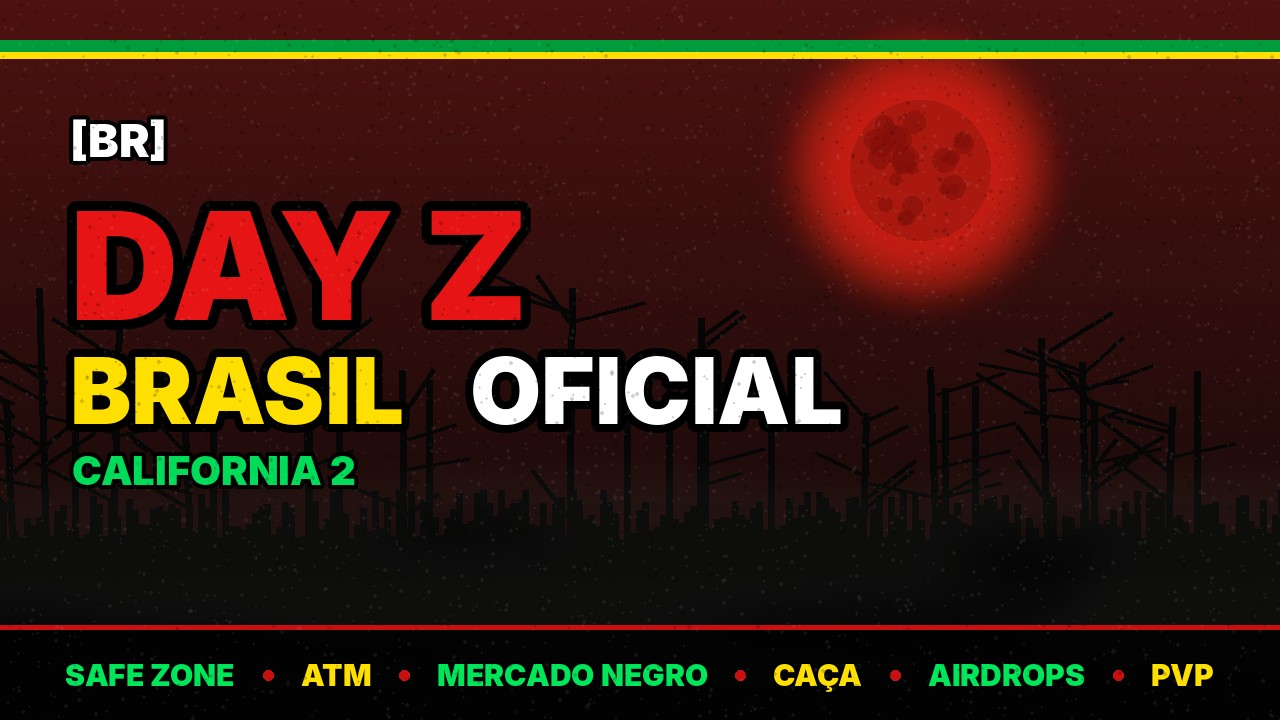
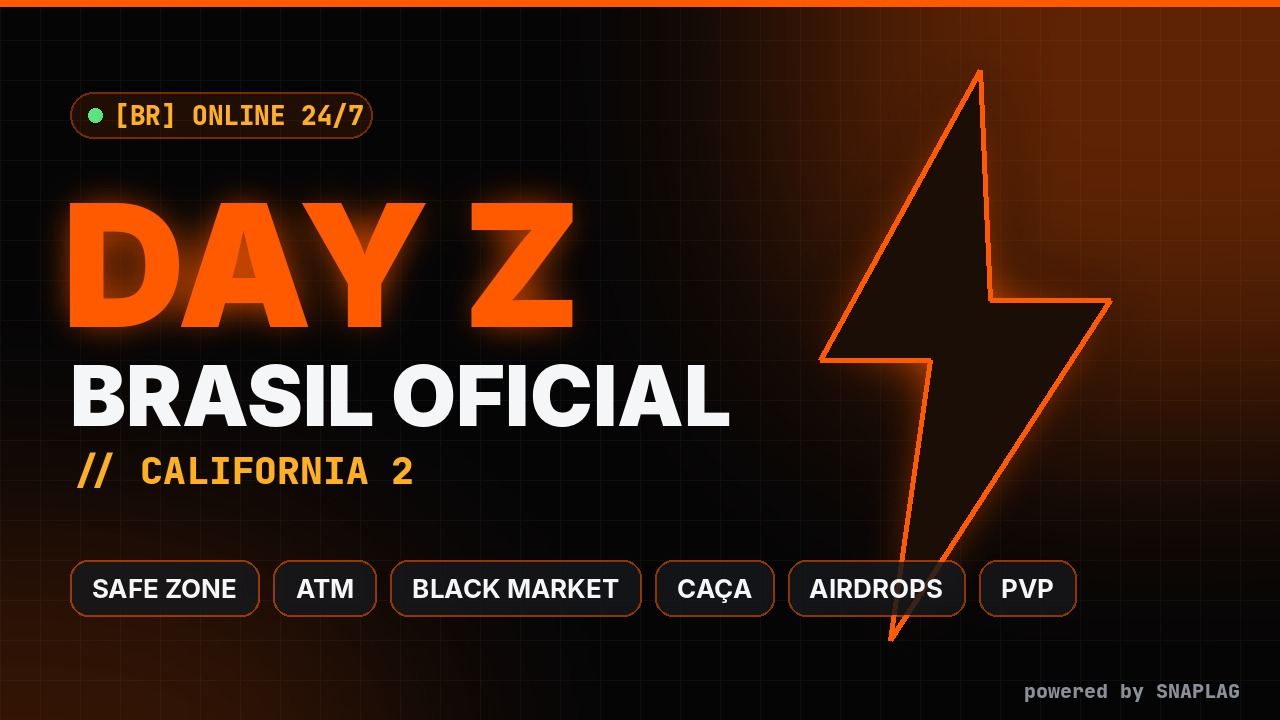
Visual do servidor nas cores da SnapLag
Claude-Session: https://claude.ai/code/session_01GSKc7AUReMLWW21u7K2zXE

diff --git a/branding/gerar_imagens.py b/branding/gerar_imagens.py
@@ -1,105 +1,77 @@
 from PIL import Image, ImageDraw, ImageFont, ImageFilter
-import random, math
-random.seed(7)
-F="/usr/share/fonts/opentype/inter/Inter-Black.otf"
-import os
-if not os.path.exists(F): F="/usr/share/fonts/opentype/inter/Inter-ExtraBold.otf"
+import random
+random.seed(3)
+INTER="/usr/share/fonts/opentype/inter/Inter-Black.otf"
+INTERB="/usr/share/fonts/opentype/inter/Inter-Bold.otf"
+MONO="/usr/share/fonts/truetype/jetbrains-mono/JetBrainsMono-ExtraBold.ttf"
 OUT="/home/user/servidor-unturned/branding/"
-GREEN=(0,156,59); YEL=(255,223,0); RED=(200,16,16); BLUE=(0,39,118)
+C=(255,90,0); C2=(255,176,32); CF=(255,122,46); FUNDO=(5,5,6); TIT=(245,246,247); TXT=(201,205,211); FRACO=(138,144,153)
 
-def grunge(img, n=1800, alpha=40):
-    d=ImageDraw.Draw(img,"RGBA")
-    w,h=img.size
-    for _ in range(n):
-        x,y=random.randrange(w),random.randrange(h); r=random.randint(1,3)
-        c=random.choice([(0,0,0,alpha),(255,255,255,alpha//3)])
-        d.ellipse([x,y,x+r,y+r],fill=c)
+def glow_text(base,xy,t,font,fill,glow=C,radius=16,anchor="lm",strength=2):
+    layer=Image.new("RGBA",base.size,(0,0,0,0)); ld=ImageDraw.Draw(layer)
+    ld.text(xy,t,font=font,fill=glow+(255,),anchor=anchor)
+    g=layer.filter(ImageFilter.GaussianBlur(radius))
+    for _ in range(strength): base.alpha_composite(g)
+    ImageDraw.Draw(base).text(xy,t,font=font,fill=fill,anchor=anchor)
 
-def text_outline(d,xy,t,f,fill,stroke=(0,0,0),sw=6,anchor="mm"):
-    d.text(xy,t,font=f,fill=fill,stroke_width=sw,stroke_fill=stroke,anchor=anchor)
-
-# ---------- ICON 256 ----------
+# ---------- ICON ----------
 S=256
-ic=Image.new("RGB",(S,S),(14,18,14))
-d=ImageDraw.Draw(ic,"RGBA")
-# radial red glow
-glow=Image.new("RGBA",(S,S),(0,0,0,0)); g=ImageDraw.Draw(glow)
-for r in range(130,0,-4):
-    a=int(110*(1-r/130)); g.ellipse([S/2-r,S/2-r,S/2+r,S/2+r],fill=(150,0,0,a))
-ic.paste(glow,(0,0),glow)
-# brazil diamond behind
-d.polygon([(S/2,22),(S-22,S/2),(S/2,S-22),(22,S/2)],fill=(0,156,59,200))
-d.ellipse([S/2-62,S/2-62,S/2+62,S/2+62],fill=(0,39,118,220))
-f=ImageFont.truetype(F,128)
-text_outline(d,(S/2-4,S/2-6),"DZ",f,YEL,sw=8)
-f2=ImageFont.truetype(F,34)
-d.rectangle([0,S-46,S,S],fill=(150,0,0,235))
-text_outline(d,(S/2,S-23),"BRASIL",f2,(255,255,255),sw=3)
-d.rectangle([2,2,S-3,S-3],outline=YEL,width=5)
-grunge(ic,900,50)
+ic=Image.new("RGBA",(S,S),(0,0,0,0)); d=ImageDraw.Draw(ic)
+d.rounded_rectangle([0,0,S-1,S-1],radius=56,fill=C)
+# bolt watermark
+d.polygon([(144,24),(64,140),(116,140),(104,232),(192,108),(136,108)],fill=(255,122,46))
+f=ImageFont.truetype(INTER,120)
+d.text((S/2,S/2-8),"DZ",font=f,fill=(26,26,26),anchor="mm")
+f2=ImageFont.truetype(MONO,30)
+d.text((S/2,S-40),"BRASIL",font=f2,fill=(26,26,26),anchor="mm")
 ic.save(OUT+"icon.png"); ic.resize((64,64),Image.LANCZOS).save(OUT+"icon64.png")
 
-# ---------- THUMBNAIL / CAPA 1280x720 ----------
+# ---------- CAPA 1280x720 ----------
 W,H=1280,720
-im=Image.new("RGB",(W,H),(8,10,8))
+im=Image.new("RGBA",(W,H),FUNDO+(255,)); d=ImageDraw.Draw(im,"RGBA")
+# grid
+ov=Image.new("RGBA",(W,H),(0,0,0,0)); od=ImageDraw.Draw(ov)
+for x in range(0,W,40): od.line([(x,0),(x,H)],fill=(255,255,255,9))
+for y in range(0,H,40): od.line([(0,y),(W,y)],fill=(255,255,255,9))
+im.alpha_composite(ov)
+# orange glows
+gl=Image.new("RGBA",(W,H),(0,0,0,0)); gd=ImageDraw.Draw(gl)
+gd.ellipse([700,-200,1500,500],fill=C+(90,)); gd.ellipse([-300,450,500,1000],fill=C+(50,))
+im.alpha_composite(gl.filter(ImageFilter.GaussianBlur(140)))
 d=ImageDraw.Draw(im,"RGBA")
-# sky gradient dark red -> black
-for y in range(H):
-    t=y/H; c=(int(70*(1-t)+8),int(10*(1-t)+8),int(8*(1-t)+8)); d.line([(0,y),(W,y)],fill=c)
-# blood moon
-for r in range(170,0,-3):
-    a=int(140*(1-r/170)**1.5); d.ellipse([920-r,170-r,920+r,170+r],fill=(200,30,20,a))
-d.ellipse([850,100,990,240],fill=(170,25,15,255))
-for _ in range(25):
-    cx_,cy_=random.randint(870,970),random.randint(120,220); rr=random.randint(4,14); d.ellipse([cx_-rr,cy_-rr,cx_+rr,cy_+rr],fill=(130,15,10,160))
-# dead trees / city silhouette
-for i in range(0,W,6):
-    h=random.randint(40,90)+ (120 if random.random()<0.06 else 0)
-    d.rectangle([i,H-140-h,i+6,H],fill=(5,6,5,255))
-for _ in range(14):
-    x=random.randint(0,W); y0=H-140
-    hh=random.randint(160,300)
-    d.line([(x,y0),(x+random.randint(-10,10),y0-hh)],fill=(5,6,5),width=7)
-    for k in range(6):
-        yy=y0-random.randint(60,hh); L=random.randint(30,80); s=random.choice([-1,1])
-        d.line([(x,yy),(x+s*L,yy-random.randint(10,50))],fill=(5,6,5),width=4)
-# ground
-d.rectangle([0,H-140,W,H],fill=(6,7,6))
-# fog
-fog=Image.new("RGBA",(W,H),(0,0,0,0)); fg=ImageDraw.Draw(fog)
-for _ in range(60):
-    x=random.randint(-200,W); y=random.randint(H-260,H-80); w=random.randint(200,500)
-    fg.ellipse([x,y,x+w,y+60],fill=(120,120,110,18))
-fog=fog.filter(ImageFilter.GaussianBlur(18)); im.paste(fog,(0,0),fog)
+# big bolt on right
+bolt=[(980,70),(820,360),(930,360),(890,640),(1110,300),(990,300)]
+bl=Image.new("RGBA",(W,H),(0,0,0,0)); bd=ImageDraw.Draw(bl); bd.polygon(bolt,fill=C+(255,))
+im.alpha_composite(bl.filter(ImageFilter.GaussianBlur(30)))
+d=ImageDraw.Draw(im,"RGBA"); d.polygon(bolt,fill=(26,14,6,255),outline=C+(255,)); d.line(bolt+[bolt[0]],fill=C+(255,),width=5)
+# tag pill
+fm=ImageFont.truetype(MONO,26)
+ov=Image.new("RGBA",(W,H),(0,0,0,0)); od=ImageDraw.Draw(ov)
+od.rounded_rectangle([70,92,372,138],radius=23,fill=(255,90,0,28),outline=(255,90,0,115),width=2)
+im.alpha_composite(ov); d=ImageDraw.Draw(im)
+d.ellipse([88,108,102,122],fill=(91,227,125))
+d.text((114,115),"[BR] ONLINE 24/7",font=fm,fill=C2,anchor="lm")
+fT=ImageFont.truetype(INTER,170)
+glow_text(im,(62,265),"DAY Z",fT,C,radius=22)
+fB=ImageFont.truetype(INTER,84)
 d=ImageDraw.Draw(im,"RGBA")
-# brazil stripe
-d.rectangle([0,40,W,52],fill=GREEN); d.rectangle([0,52,W,58],fill=YEL)
-f1=ImageFont.truetype(F,46); text_outline(d,(70,140),"[BR]",f1,(255,255,255),sw=4,anchor="lm")
-fT=ImageFont.truetype(F,150)
-text_outline(d,(70,265),"DAY Z",fT,(230,20,20),sw=10,anchor="lm")
-fB=ImageFont.truetype(F,92)
-text_outline(d,(70,390),"BRASIL",fB,YEL,sw=8,anchor="lm")
-text_outline(d,(470,390),"OFICIAL",fB,(255,255,255),sw=8,anchor="lm")
-fM=ImageFont.truetype(F,40)
-text_outline(d,(72,470),"CALIFORNIA 2",fM,(0,220,90),sw=4,anchor="lm")
-# feature bar
-bar_y=H-95
-d.rectangle([0,bar_y,W,H],fill=(0,0,0,200))
-d.rectangle([0,bar_y,W,bar_y+4],fill=(200,16,16))
-feats=["SAFE ZONE","ATM","MERCADO NEGRO","CAÇA","AIRDROPS","PVP"]
-fF=ImageFont.truetype(F,30)
-ws=[d.textlength(t,font=fF) for t in feats]
-gap=(W-sum(ws))/(len(feats)+1)
-x=gap
-for i,t in enumerate(feats):
-    col=(0,230,90) if i%2==0 else YEL
-    text_outline(d,(x+ws[i]/2,bar_y+50),t,fF,col,sw=3)
-    if i: d.ellipse([x-gap/2-5,bar_y+45,x-gap/2+5,bar_y+55],fill=(200,16,16))
-    x+=ws[i]+gap
-grunge(im,6000,45)
-# vignette
-vig=Image.new("L",(W,H),0); vd=ImageDraw.Draw(vig)
-for i in range(60):
-    vd.rectangle([i*4,i*3,W-i*4,H-i*3],outline=255-i*4)
-im.save(OUT+"capa.png"); im.convert("RGB").save(OUT+"capa.jpg",quality=90)
+d.text((70,395),"BRASIL OFICIAL",font=fB,fill=TIT,anchor="lm")
+fM=ImageFont.truetype(MONO,38)
+d.text((72,470),"// CALIFORNIA 2",font=fM,fill=C2,anchor="lm")
+# feature chips
+feats=["SAFE ZONE","ATM","BLACK MARKET","CAÇA","AIRDROPS","PVP"]
+fF=ImageFont.truetype(INTERB,26)
+x=70; y=560
+for t in feats:
+    w=d.textlength(t,font=fF)+44
+    ov=Image.new("RGBA",(W,H),(0,0,0,0)); od=ImageDraw.Draw(ov)
+    od.rounded_rectangle([x,y,x+w,y+56],radius=18,fill=(22,23,26,215),outline=(255,90,0,140),width=2)
+    im.alpha_composite(ov); d=ImageDraw.Draw(im)
+    d.text((x+w/2,y+28),t,font=fF,fill=TIT,anchor="mm")
+    x+=w+14
+# footer
+fs=ImageFont.truetype(MONO,20)
+d.text((W-40,H-30),"powered by SNAPLAG",font=fs,fill=FRACO,anchor="rm")
+d.rectangle([0,0,W,6],fill=C)
+im.convert("RGB").save(OUT+"capa.jpg",quality=92); im.save(OUT+"capa.png")
 print("ok")
